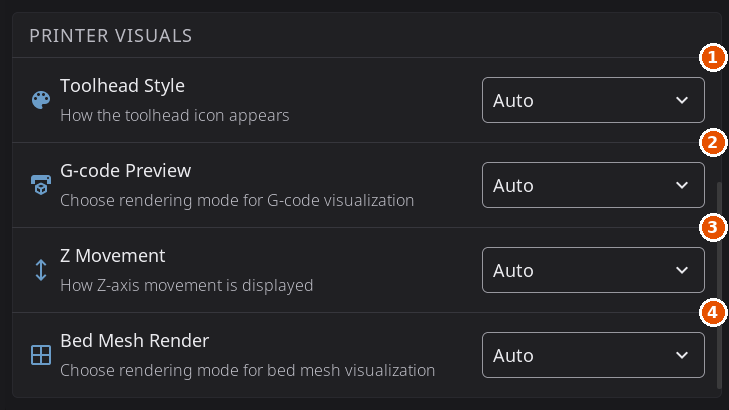
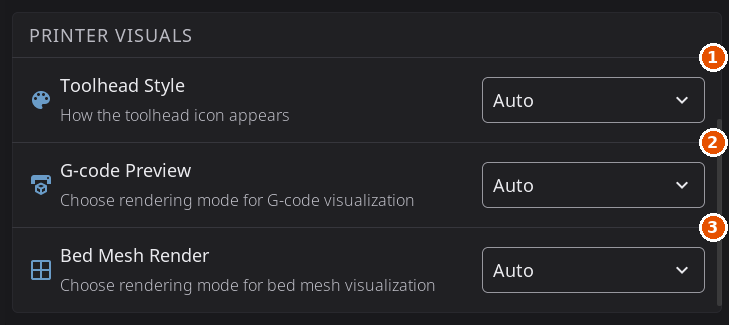
docs(screenshots): live print, shaper results and the three broken captures
Print Status and its control strip capture a print held at 10% by demo print-live; the shaper shot runs the mock calibration to its results. The screws recipe opens Bed Screws from Calibration, the home bar marks X, XY and Z, and Printer Visuals drops Z Movement, which moved to Printing > Motion. Display, System and System reset scroll to the real bottom of their grown pages.

diff --git a/docs/user/guide/motion.md b/docs/user/guide/motion.md
@@ -54,21 +54,22 @@ Under the jog pad (beside the Fine / Coarse / Turbo buttons in landscape) is a r
 
 | Button | What it does |
 |--------|--------------|
-| **All** | Homes X, Y and Z. |
+| **All** | Homes X, Y and Z. Shown when the bar is wide enough for five buttons. |
 | **X** | Homes X only. |
 | **Y** | Homes Y only. |
+| **XY** | Homes X and Y together. |
 | **Z** | Homes Z only. |
 
 Each button turns **green** once its axis is homed and stays gray until then. **All** turns green when X, Y and Z are all homed. The buttons are disabled while a homing, leveling or other action started from the Controls panel is running. A home started from this bar or from the jog pad's center does not lock them, so wait for the "homed" message before tapping again, or a second home is sent. When homing finishes, a message tells you ("All axes homed", or "X axis homed" for a single axis), and a failure shows "Homing failed" with the reason.
 
-On a **delta** printer the axes can only be homed together, so the bar shows **All** alone. The Controls panel has a similar bar that adds an **XY** button (see [Homing](#homing)).
+On an 800x480 screen the bar has room for four buttons, so **All** is left out; the house in the middle of the jog pad homes every axis. On a **delta** printer the axes can only be homed together, so the bar shows **All** alone. The Controls panel has a similar bar (see [Homing](#homing)).
 
 The home bar belongs to the Jog Pad layout. The other [Jog layouts](#jog-layouts) have their own home keys.
 
 ![The home bar under the jog pad](../../images/user/motion-home-bar.png)
 
-1. Home all axes.
-2. Home X (Y sits between X and Z).
+1. Home X (Y sits next to it).
+2. Home X and Y together.
 3. Home Z.
 
 ### Z-Axis Controls

diff --git a/docs/user/guide/settings/printing.md b/docs/user/guide/settings/printing.md
@@ -8,7 +8,7 @@
 
 Rows for things your printer doesn't have are hidden, so your list may be shorter than the one pictured.
 
-Looking for how the printer is *drawn* (toolhead picture, G-code preview, Z button labels, bed mesh view)? That's in [Appearance](appearance.md#printer-visuals).
+Looking for how the printer is *drawn* (toolhead picture, G-code preview, bed mesh view)? That's in [Appearance](appearance.md#printer-visuals).
 
 ![Printing settings, the Machine section](../../../images/user/settings-printing.png)
 

diff --git a/docs/user/guide/calibration.md b/docs/user/guide/calibration.md
@@ -89,7 +89,7 @@ The reference screw is labeled **base** (it is the one everything else is measur
 
 ## Input Shaper
 
-![Input Shaper results: the X axis chart with shaper chips, the legend and the top of the comparison table](../../images/user/advanced-shaper.png)
+![Input Shaper results: the X axis chart with its legend and the shaper chips](../../images/user/advanced-shaper.png)
 
 Tune vibration compensation for smoother, faster prints:
 

diff --git a/docs/user/configuration/appearance.md b/docs/user/configuration/appearance.md
@@ -40,8 +40,7 @@ These rows are under **PRINTER VISUALS** in **Settings > Appearance**. The print
 
 1. Toolhead Style.
 2. G-code Preview.
-3. Z Movement.
-4. Bed Mesh Render.
+3. Bed Mesh Render.
 
 | Key | Default | Values | What it does |
 |-----|---------|--------|--------------|

diff --git a/docs/user/guide/settings/appearance.md b/docs/user/guide/settings/appearance.md
@@ -141,8 +141,7 @@ The rows under **PRINTER VISUALS** change how your printer and its data are draw
 
 1. Toolhead Style.
 2. G-code Preview.
-3. Z Movement.
-4. Bed Mesh Render.
+3. Bed Mesh Render.
 
 ### Toolhead Style
 
